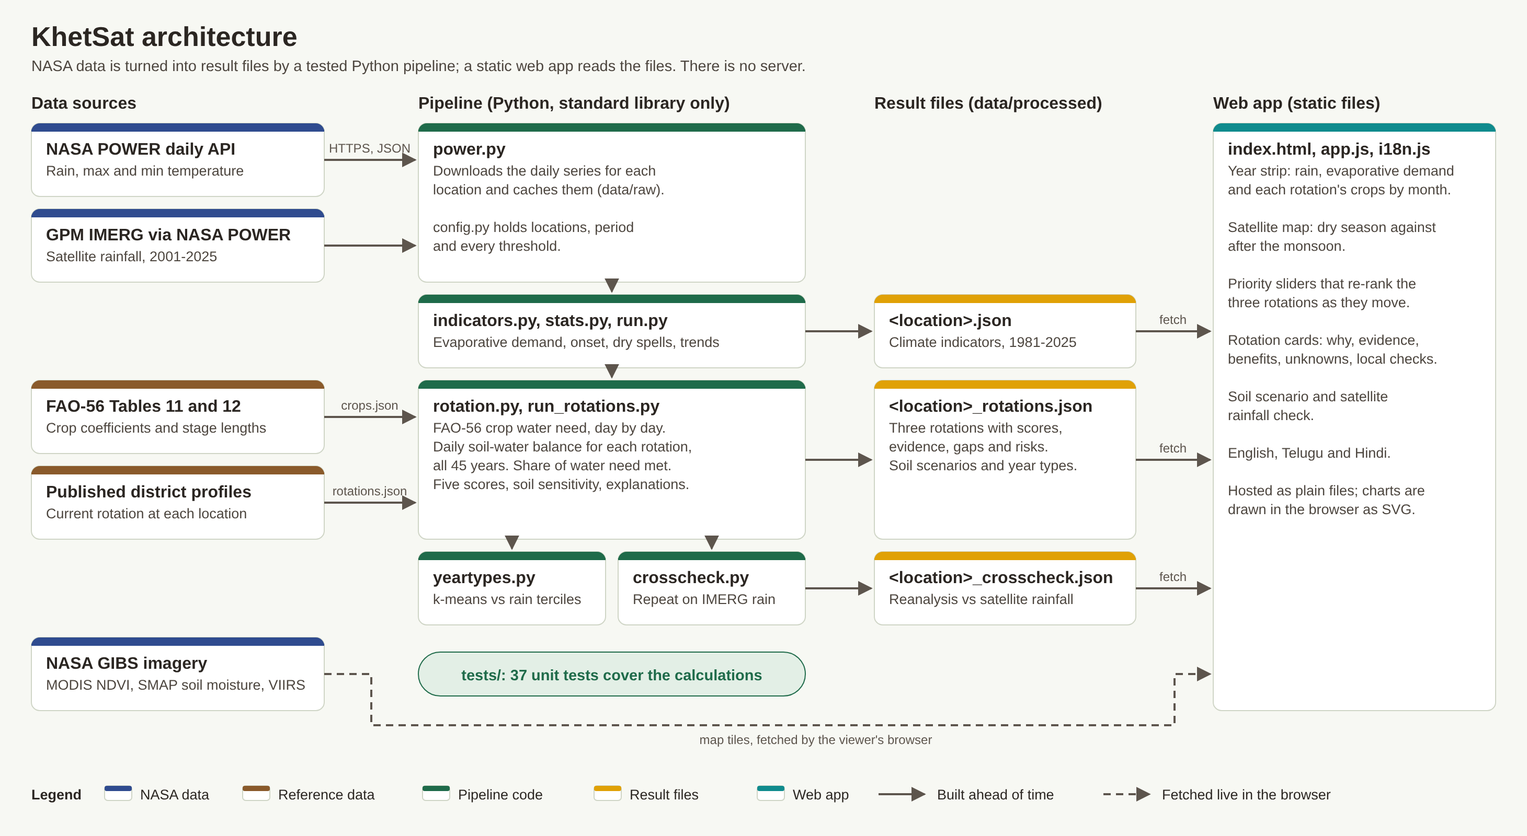
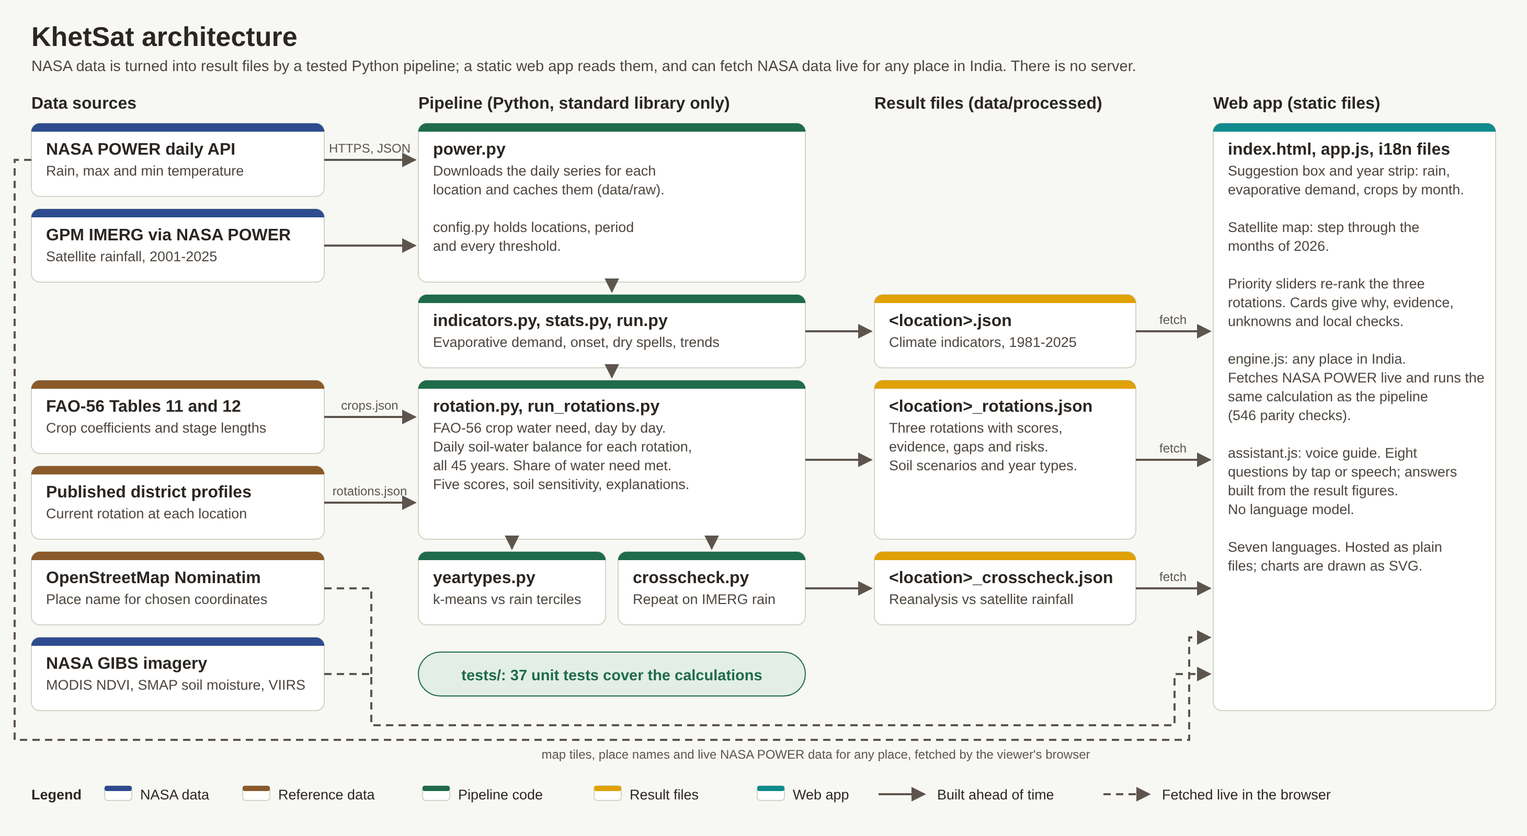
Add "Suggestion for your farm" box with sowing guidance; update diagram
Plain-language suggestion at the top of each place: best-fitting rotation,
poor-year outcome, when the rains settle, what to check. Architecture
diagram now shows the voice guide, any-place mode and place names.

diff --git a/app/i18n-voice.js b/app/i18n-voice.js
@@ -46,6 +46,8 @@
       a_trust_use: "Use these results to compare rotations and to see how often a crop runs short of water. Do not read them as exact amounts for your field.",
       a_trust_not: "Not yet compared with rain-gauge records or with crop yields. Soil water storage is assumed. Prices are not included.",
       a_trust_custom: "For this place the check against satellite rainfall has not been run.",
+      advice_title: "Suggestion for your farm",
+      a_sow: "Sowing a rain-fed crop before the rains settle risks a dry spell soon after sowing.",
       a_check_intro: "Before changing your rotation, check these with your local agriculture officer or Krishi Vigyan Kendra:",
       kw: {
         best: ["which rotation", "what should i grow", "which crop", "priorit", "best", "suit", "recommend", "grow", "plant", "sow", "top choice", "suggest", "advice", "should i keep"],
@@ -100,6 +102,8 @@
       a_trust_use: "పంట మార్పిడి పద్ధతులను పోల్చడానికి, ఒక పంటకు నీరు ఎంత తరచుగా తక్కువవుతుందో చూడటానికి ఈ ఫలితాలను వాడండి. వీటిని మీ పొలానికి ఖచ్చితమైన కొలతలుగా తీసుకోవద్దు.",
       a_trust_not: "వర్షమాపక రికార్డులతో గానీ, పంట దిగుబడులతో గానీ ఇంకా సరిపోల్చలేదు. నేల నీటి నిల్వను ఊహించి తీసుకున్నాం. ధరలు ఇందులో లేవు.",
       a_trust_custom: "ఈ ప్రాంతానికి ఉపగ్రహ వర్షపాతంతో సరిచూడటం ఇంకా జరగలేదు.",
+      advice_title: "మీ పొలానికి సూచన",
+      a_sow: "వర్షాలు స్థిరపడక ముందే వర్షాధార పంట విత్తితే, విత్తిన వెంటనే వానలు ఆగిపోయే ప్రమాదం ఉంది.",
       a_check_intro: "పంట మార్పిడి పద్ధతిని మార్చే ముందు, వీటిని మీ స్థానిక వ్యవసాయ అధికారితో లేదా కృషి విజ్ఞాన కేంద్రంతో సరిచూసుకోండి:",
       kw: {
         best: ["ఏ పంట", "సరిపోతుంది", "ఏది మంచి", "ఏం వేయాలి", "ప్రాధాన్య", "సూచి", "సలహా", "బాగుంటుంది", "ఉత్తమ", "మంచిది", "వేయాలా", "మార్చాలా", "ఏ పద్ధతి"],
@@ -154,6 +158,8 @@
       a_trust_use: "इन नतीजों से फसल चक्रों की तुलना करें और देखें कि किसी फसल को पानी कितनी बार कम पड़ता है। इन्हें अपने खेत की सटीक माप न मानें।",
       a_trust_not: "अभी वर्षामापी के रिकॉर्ड या फसल की पैदावार से मिलान नहीं हुआ है। मिट्टी में पानी का भंडार मान लिया गया है। क़ीमतें शामिल नहीं हैं।",
       a_trust_custom: "इस जगह के लिए उपग्रह वर्षा से जाँच अभी नहीं हुई है।",
+      advice_title: "आपके खेत के लिए सुझाव",
+      a_sow: "बारिश जमने से पहले वर्षा पर निर्भर फसल बोने पर, बुवाई के तुरंत बाद सूखा दौर पड़ने का जोखिम रहता है।",
       a_check_intro: "फसल चक्र बदलने से पहले ये बातें अपने स्थानीय कृषि अधिकारी या कृषि विज्ञान केंद्र से जाँच लें:",
       kw: {
         best: ["कौन सा फसल", "कौन सी फसल", "क्या उगा", "प्राथमिकता", "सबसे अच्छा", "सलाह", "सुझाव", "अच्छा है", "बढ़िया", "कौन सा विकल्प", "बोऊँ", "लगाऊँ", "बदल दूँ", "कौन सा चक्र", "क्या बोना", "क्या बोएँ"],
@@ -208,6 +214,8 @@
       a_trust_use: "பயிர் சுழற்சி முறைகளை ஒப்பிடவும், ஒரு பயிருக்கு எத்தனை முறை தண்ணீர் பற்றாக்குறை ஏற்படுகிறது என்று பார்க்கவும் இந்த முடிவுகளைப் பயன்படுத்துங்கள். இவற்றை உங்கள் வயலுக்கான துல்லியமான அளவுகளாக எடுத்துக்கொள்ள வேண்டாம்.",
       a_trust_not: "மழைமானிப் பதிவுகளுடனோ பயிர் விளைச்சலுடனோ இன்னும் ஒப்பிட்டுப் பார்க்கவில்லை. மண்ணின் நீர் சேமிப்பு அனுமானமாக எடுக்கப்பட்டது. விலைகள் சேர்க்கப்படவில்லை.",
       a_trust_custom: "இந்த இடத்திற்குச் செயற்கைக்கோள் மழைத் தரவுடன் சரிபார்ப்பு இன்னும் செய்யப்படவில்லை.",
+      advice_title: "உங்கள் வயலுக்கான பரிந்துரை",
+      a_sow: "மழை நிலைபெறும் முன் மானாவாரிப் பயிரை விதைத்தால், விதைத்த உடனே வறண்ட இடைவெளி வரும் ஆபத்து உள்ளது.",
       a_check_intro: "பயிர் சுழற்சி முறையை மாற்றுவதற்கு முன், இவற்றை உங்கள் உள்ளூர் வேளாண் அலுவலரிடம் அல்லது வேளாண் அறிவியல் நிலையத்திடம் சரிபார்க்கவும்:",
       kw: {
         best: ["எந்தப் பயிர்", "எந்த பயிர்", "பொருந்தும்", "முன்னுரிமை", "எது சிறந்த", "என்ன பயிரிட"],
@@ -262,6 +270,8 @@
       a_trust_use: "ಬೆಳೆ ಪರಿವರ್ತನೆ ಪದ್ಧತಿಗಳನ್ನು ಹೋಲಿಸಲು ಮತ್ತು ಒಂದು ಬೆಳೆಗೆ ಎಷ್ಟು ಬಾರಿ ನೀರಿನ ಕೊರತೆಯಾಗುತ್ತದೆ ಎಂದು ನೋಡಲು ಈ ಫಲಿತಾಂಶಗಳನ್ನು ಬಳಸಿ. ಇವುಗಳನ್ನು ನಿಮ್ಮ ಹೊಲದ ನಿಖರ ಅಳತೆಗಳೆಂದು ತೆಗೆದುಕೊಳ್ಳಬೇಡಿ.",
       a_trust_not: "ಮಳೆಮಾಪಕ ದಾಖಲೆಗಳೊಂದಿಗೆ ಅಥವಾ ಬೆಳೆ ಇಳುವರಿಯೊಂದಿಗೆ ಇನ್ನೂ ಹೋಲಿಸಿಲ್ಲ. ಮಣ್ಣಿನ ನೀರು ಸಂಗ್ರಹವನ್ನು ಊಹಿಸಿ ತೆಗೆದುಕೊಳ್ಳಲಾಗಿದೆ. ಬೆಲೆಗಳು ಇದರಲ್ಲಿ ಸೇರಿಲ್ಲ.",
       a_trust_custom: "ಈ ಸ್ಥಳಕ್ಕೆ ಉಪಗ್ರಹ ಮಳೆ ದತ್ತಾಂಶದೊಂದಿಗೆ ಪರಿಶೀಲನೆ ಇನ್ನೂ ಆಗಿಲ್ಲ.",
+      advice_title: "ನಿಮ್ಮ ಹೊಲಕ್ಕೆ ಸಲಹೆ",
+      a_sow: "ಮಳೆ ನೆಲೆಗೊಳ್ಳುವ ಮೊದಲೇ ಮಳೆಯಾಶ್ರಿತ ಬೆಳೆ ಬಿತ್ತಿದರೆ, ಬಿತ್ತಿದ ಕೂಡಲೇ ಒಣ ಅವಧಿ ಬರುವ ಅಪಾಯವಿದೆ.",
       a_check_intro: "ಬೆಳೆ ಪರಿವರ್ತನೆ ಪದ್ಧತಿಯನ್ನು ಬದಲಾಯಿಸುವ ಮೊದಲು, ಇವುಗಳನ್ನು ನಿಮ್ಮ ಸ್ಥಳೀಯ ಕೃಷಿ ಅಧಿಕಾರಿ ಅಥವಾ ಕೃಷಿ ವಿಜ್ಞಾನ ಕೇಂದ್ರದೊಂದಿಗೆ ಪರಿಶೀಲಿಸಿ:",
       kw: {
         best: ["ಯಾವ ಬೆಳೆ", "ಹೊಂದುತ್ತದೆ", "ಆದ್ಯತೆ", "ಯಾವುದು ಉತ್ತಮ", "ಏನು ಬೆಳೆಯ"],
@@ -316,6 +326,8 @@
       a_trust_use: "पीक फेरपालटींची तुलना करण्यासाठी आणि एखाद्या पिकाला किती वेळा पाणी कमी पडते हे पाहण्यासाठी हे निष्कर्ष वापरा. यांना तुमच्या शेताची अचूक मोजमापे समजू नका.",
       a_trust_not: "पर्जन्यमापकाच्या नोंदींशी किंवा पिकांच्या उत्पादनाशी अजून पडताळणी झालेली नाही. जमिनीतील पाणीसाठा गृहीत धरलेला आहे. किमती यात नाहीत.",
       a_trust_custom: "या ठिकाणासाठी उपग्रह पावसाच्या माहितीशी पडताळणी अजून झालेली नाही.",
+      advice_title: "तुमच्या शेतासाठी सूचना",
+      a_sow: "पाऊस स्थिरावण्यापूर्वी कोरडवाहू पीक पेरल्यास, पेरणीनंतर लगेच पावसाचा खंड पडण्याचा धोका असतो.",
       a_check_intro: "पीक फेरपालट बदलण्यापूर्वी या गोष्टी तुमच्या स्थानिक कृषी अधिकाऱ्याकडे किंवा कृषी विज्ञान केंद्राकडे तपासा:",
       kw: {
         best: ["कोणती पीक", "कोणते पीक", "जुळते", "प्राधान्य", "सर्वात चांगल", "काय पेरू"],
@@ -370,6 +382,8 @@
       a_trust_use: "ଫସଲ ଚକ୍ରଗୁଡ଼ିକୁ ତୁଳନା କରିବା ଓ କୌଣସି ଫସଲକୁ କେତେ ଥର ପାଣି କମ୍ ପଡ଼େ ତାହା ଦେଖିବା ପାଇଁ ଏହି ଫଳାଫଳ ବ୍ୟବହାର କରନ୍ତୁ। ଏଗୁଡ଼ିକୁ ନିଜ ଜମିର ସଠିକ୍ ମାପ ବୋଲି ଧରନ୍ତୁ ନାହିଁ।",
       a_trust_not: "ବର୍ଷାମାପକ ରେକର୍ଡ କିମ୍ବା ଫସଲ ଅମଳ ସହ ଏପର୍ଯ୍ୟନ୍ତ ମିଳାଯାଇନାହିଁ। ମାଟିର ପାଣି ଧାରଣ କ୍ଷମତା ଅନୁମାନ କରାଯାଇଛି। ଦାମ୍ ଏଥିରେ ନାହିଁ।",
       a_trust_custom: "ଏହି ସ୍ଥାନ ପାଇଁ ଉପଗ୍ରହ ବର୍ଷା ତଥ୍ୟ ସହ ଯାଞ୍ଚ ଏପର୍ଯ୍ୟନ୍ତ ହୋଇନାହିଁ।",
+      advice_title: "ଆପଣଙ୍କ ଜମି ପାଇଁ ପରାମର୍ଶ",
+      a_sow: "ବର୍ଷା ସ୍ଥିର ହେବା ପୂର୍ବରୁ ବର୍ଷାଧାରିତ ଫସଲ ବୁଣିଲେ, ବୁଣିବା ପରେ ପରେ ଶୁଖିଲା ସମୟ ଆସିବାର ବିପଦ ଥାଏ।",
       a_check_intro: "ଫସଲ ଚକ୍ର ବଦଳାଇବା ପୂର୍ବରୁ ଏଗୁଡ଼ିକୁ ନିଜ ସ୍ଥାନୀୟ କୃଷି ଅଧିକାରୀ କିମ୍ବା କୃଷି ବିଜ୍ଞାନ କେନ୍ଦ୍ର ସହ ଯାଞ୍ଚ କରନ୍ତୁ:",
       kw: {
         best: ["କେଉଁ ଫସଲ", "ପ୍ରାଥମିକତା", "ସବୁଠାରୁ ଭଲ", "କ'ଣ ଚାଷ"],

diff --git a/app/assistant.js b/app/assistant.js
@@ -51,7 +51,7 @@
   function answer(intent) {
     var k = K(), t = k.t, state = k.state;
     var data = state.cache[state.place];
-    var title = t("q_" + intent);
+    var title = intent === "advice" ? t("advice_title") : t("q_" + intent);
     var lines = [];
     function x(code, params) { return k.explain({ code: code, params: params || {} }); }
 
@@ -66,7 +66,26 @@
     var top = order[0].rotation;
     var summary = data.climate.summary;
 
-    if (intent === "best") {
+    if (intent === "advice") {
+      // The short version shown at the top of the page: which rotation, how it does in a
+      // poor-rain year, when the rains settle, and the reminder to check locally.
+      lines.push(t("a_best", { place: k.placeName(state.place), rotation: k.rotationLabel(top), score: order[0].score }));
+      if (top.existing) lines.push(t("a_best_current"));
+      else top.explanation.why_suggested.forEach(function (entry) { lines.push(k.explain(entry)); });
+      lines.push(top.crops.map(function (crop) {
+        var name = k.cropName(crop.crop);
+        return crop.irrigated ? t("a_poor_irrigated", { crop: name })
+          : t("a_poor_crop", { crop: name, bad: crop.wrsi_bad_year, failed: crop.failed_seasons, total: crop.seasons_simulated });
+      }).join(" "));
+      var rainfed = top.crops.some(function (crop) { return !crop.irrigated; });
+      if (rainfed && summary.onset.p10_days_after_jun1 !== null) {
+        lines.push(t("a_rain_onset", {
+          from: k.dateAfterJune1(summary.onset.p10_days_after_jun1),
+          to: k.dateAfterJune1(summary.onset.p90_days_after_jun1)
+        }) + " " + t("a_sow"));
+      }
+      lines.push(x("no_market") + " " + t("disclaimer"));
+    } else if (intent === "best") {
       lines.push(t("a_best", { place: k.placeName(state.place), rotation: k.rotationLabel(top), score: order[0].score }));
       if (top.existing) lines.push(t("a_best_current"));
       else top.explanation.why_suggested.forEach(function (entry) { lines.push(k.explain(entry)); });
@@ -102,6 +121,7 @@
           from: k.dateAfterJune1(summary.onset.p10_days_after_jun1),
           to: k.dateAfterJune1(summary.onset.p90_days_after_jun1)
         }));
+        lines.push(t("a_sow"));
       }
       var trend = rain.trend;
       lines.push(!trend.significant ? t("trend_flat")
@@ -334,6 +354,17 @@
     answer("trust").lines.forEach(function (line) { list.appendChild(h("li", { text: line })); });
   }
 
+  function paintAdvice() {
+    var section = byId("advice");
+    if (!section) return;
+    var data = k.state.cache[k.state.place];
+    section.hidden = !data;
+    if (!data) return;
+    byId("advice-title").textContent = t("advice_title");
+    var list = clear(byId("advice-points"));
+    answer("advice").lines.forEach(function (line) { list.appendChild(h("li", { text: line })); });
+  }
+
   function refresh() {
     document.querySelectorAll("[data-say]").forEach(function (button) {
       setLabel(button, ICON_SPEAKER, t(button.getAttribute("data-label") || "assist_listen"));
@@ -353,6 +384,7 @@
     paintAnswer();
     paintControls();
     paintTrust();
+    paintAdvice();
   }
 
   function sayButton(intent, labelKey, className) {
@@ -374,7 +406,7 @@
 
     // A listen button beside each section heading.
     [["strip-title", "chart"], ["map-title", "map"], ["rotations-title", "best"],
-      ["climate-title", "rain"], ["check-title", "trust"], ["trust-title", "trust"]].forEach(function (pair) {
+      ["climate-title", "rain"], ["check-title", "trust"], ["trust-title", "trust"], ["advice-title", "advice"]].forEach(function (pair) {
       var heading = byId(pair[0]);
       if (heading) heading.parentNode.insertBefore(sayButton(pair[1]), heading.nextSibling);
     });

diff --git a/app/styles.css b/app/styles.css
@@ -203,6 +203,12 @@ footer p { max-width: 90ch; }
 .say.big svg { width: 28px; height: 28px; }
 .listen-bar { display: flex; flex-wrap: wrap; gap: 0.7rem; margin-top: 1.2rem; }
 
+.advice { margin-top: 1.4rem; background: var(--paddy-pale); border: 1px solid var(--rule); border-left: 6px solid var(--paddy); border-radius: 6px; padding: 1.1rem 1.3rem; }
+.advice h2 { font-size: 1.35rem; color: var(--paddy); }
+.advice ul { margin: 0; padding-left: 1.1rem; max-width: 80ch; font-size: 1.06rem; }
+.advice li { margin-bottom: 0.35rem; }
+.advice li:first-child { font-weight: 600; }
+
 .trust { background: var(--white); border: 1px solid var(--rule); border-left: 5px solid var(--rain); border-radius: 6px; padding: 1.1rem 1.3rem; }
 .trust h2 { font-size: 1.25rem; }
 .trust ul { margin: 0; padding-left: 1.1rem; max-width: 80ch; }

diff --git a/tests/assistant_check.js b/tests/assistant_check.js
@@ -40,7 +40,7 @@ for (const place of ["anantapur", "krishna", "anakapalli"]) {
   state.place = place;
   for (const lang of Object.keys(window.I18N)) {
     state.lang = lang;
-    for (const intent of INTENTS) {
+    for (const intent of INTENTS.concat(["advice"])) {
       const reply = answer(intent);
       const text = [reply.title].concat(reply.lines).join(" ");
       expect(reply.lines.length > 0 && reply.lines.every((line) => line && line.trim().length > 3), `${place}/${lang}/${intent}: empty line`);

diff --git a/index.html b/index.html
@@ -43,6 +43,11 @@
     <p class="note" id="form-status" role="status"></p>
   </section>
 
+  <section class="advice" id="advice" aria-labelledby="advice-title" hidden>
+    <h2 id="advice-title"></h2>
+    <ul id="advice-points"></ul>
+  </section>
+
   <section class="strip" id="strip" aria-labelledby="strip-title">
     <h1 id="strip-title"></h1>
     <p class="lede" id="strip-intro"></p>

diff --git a/README.md b/README.md
@@ -26,6 +26,8 @@ Three locations (Anantapur, Krishna, Anakapalli) come pre-analysed with sourced 
 
 The farmer sets five priorities with sliders (water in a normal year, holding up in a poor year, using less water, building the soil, breaking pest cycles) and the ranking updates.
 
+A "Suggestion for your farm" box at the top states the result in plain words: the rotation that fits best, how it holds up in a poor-rain year, when the rains usually settle, and what to check before acting.
+
 A voice guide answers eight common questions (which rotation fits, what happens in a poor-rain year, how to read the map and the chart, how accurate the data is, what to check locally) by tap, by typing or by speaking, and reads the answer aloud in the chosen language. It is for people who do not read, or who do not follow the charts. Each answer is assembled from the figures already on the page; no language model is involved, so the guide cannot say anything the data does not support.
 
 KhetSat supports decisions. It does not replace a farmer's judgment or the local agriculture officer.
@@ -71,7 +73,7 @@ Results for crops grown on leftover soil moisture in the delta are flagged as un
 - Figures describe a NASA grid cell about 50 km across, not a field.
 - Soil water storage is assumed, and every result is re-run at four storage values to show how much it matters.
 - The app is available in English, Telugu, Hindi, Tamil, Kannada, Marathi and Odia. The six Indian-language versions were drafted during the hackathon and have not yet been reviewed by a second native speaker; the app says so in each of them. `node tests/i18n_check.js` checks that every language has every string and placeholder.
-- The voice guide is checked without a browser: every question in every language is recognised from its keywords, and every answer for every place and language is complete (`node tests/assistant_check.js`, 571 checks). Reading aloud and voice input use the browser's own speech features, so they depend on the device: a phone or computer without a voice for a language shows the answer as text and says so. Voice input needs Chrome or Edge and an internet connection.
+- The voice guide is checked without a browser: every question in every language is recognised from its keywords, and every answer for every place and language is complete (`node tests/assistant_check.js`, 634 checks). Reading aloud and voice input use the browser's own speech features, so they depend on the device: a phone or computer without a voice for a language shows the answer as text and says so. Voice input needs Chrome or Edge and an internet connection.
 - How well the guide understands free wording was measured on 120 natural phrasings in English, Telugu and Hindi that were not used to build its keyword lists: 53% were routed to the right question, 33% were not recognised (the guide says so and shows the question list) and 13% got an answer on the wrong topic. All 12 out-of-scope questions were declined. The listed questions themselves are always recognised. Free-form voice questions are therefore a convenience, and tapping a question is the dependable route (`node tests/assistant_eval.js`). The phrasings were written by the author, not collected from farmers.
 - Not yet done: local soil data, prices and yields, checks against rain-gauge records, native-speaker review of the translations.
 

diff --git a/docs/METHODS.md b/docs/METHODS.md
@@ -191,6 +191,7 @@ Limits specific to this mode:
 `app/assistant.js` answers eight fixed questions by tap, typed text or speech, and reads the answer aloud.
 
 - **No language model.** Each answer is built from the same result files and translated sentences the page displays (rotation scores, share of water need met, failed seasons, the satellite cross-check). The guide cannot produce a figure that is not in the data.
+- **Suggestion box.** The "Suggestion for your farm" box at the top of the page is built the same way: the best-matching rotation for the current priorities, why it is suggested, how its crops did in a poor-rain year (1 in 4), the range of dates when the rains usually settle (10th to 90th percentile of onset) with a caution against sowing rain-fed crops before then, and the reminder that prices are not included and local advice is needed. It changes when the priorities change.
 - **Recognising a question.** Spoken or typed text is matched against a keyword list for each question in the current language and in English. The best-scoring question is answered and its title is shown and spoken first, so the user can tell which question was understood. Text that matches nothing gets "I did not find that question" and the list of questions.
 - **Speech.** Reading aloud uses the browser's speech synthesis and voice input uses the browser's speech recognition. Nothing is sent to a KhetSat server. In Chrome and Edge, voice input sends audio to the browser vendor's speech service and needs a connection.
 - **Limits.** Which languages can be spoken depends on the voices installed on the device; where there is none, the answer is shown as text with a note. Voice input is not available in Firefox or Safari on some systems, and Odia recognition is not offered by every browser. The keyword lists and the new sentences in the six Indian languages have not been reviewed by a second native speaker.
@@ -204,7 +205,7 @@ Limits specific to this mode:
   | All | 64 of 120 (53%) | 16 (13%) | 40 (33%) | 12 of 12 |
 
   Keyword matching does not generalise well to wording it has not seen. Most misses are declined, not answered wrongly, and the answer always states which question it is answering. The phrasings were written by the project author, typed, not spoken: errors from speech recognition, dialects and farmers' own vocabulary are not measured. Tamil, Kannada, Marathi and Odia have no evaluation set yet.
-- **Checks.** `node tests/assistant_check.js` confirms that all eight questions are recognised from keywords alone in all seven languages, and that every answer for the three locations in every language is complete (571 checks).
+- **Checks.** `node tests/assistant_check.js` confirms that all eight questions are recognised from keywords alone in all seven languages, and that every answer for the three locations in every language is complete (634 checks).
 
 ## Verification status
 
